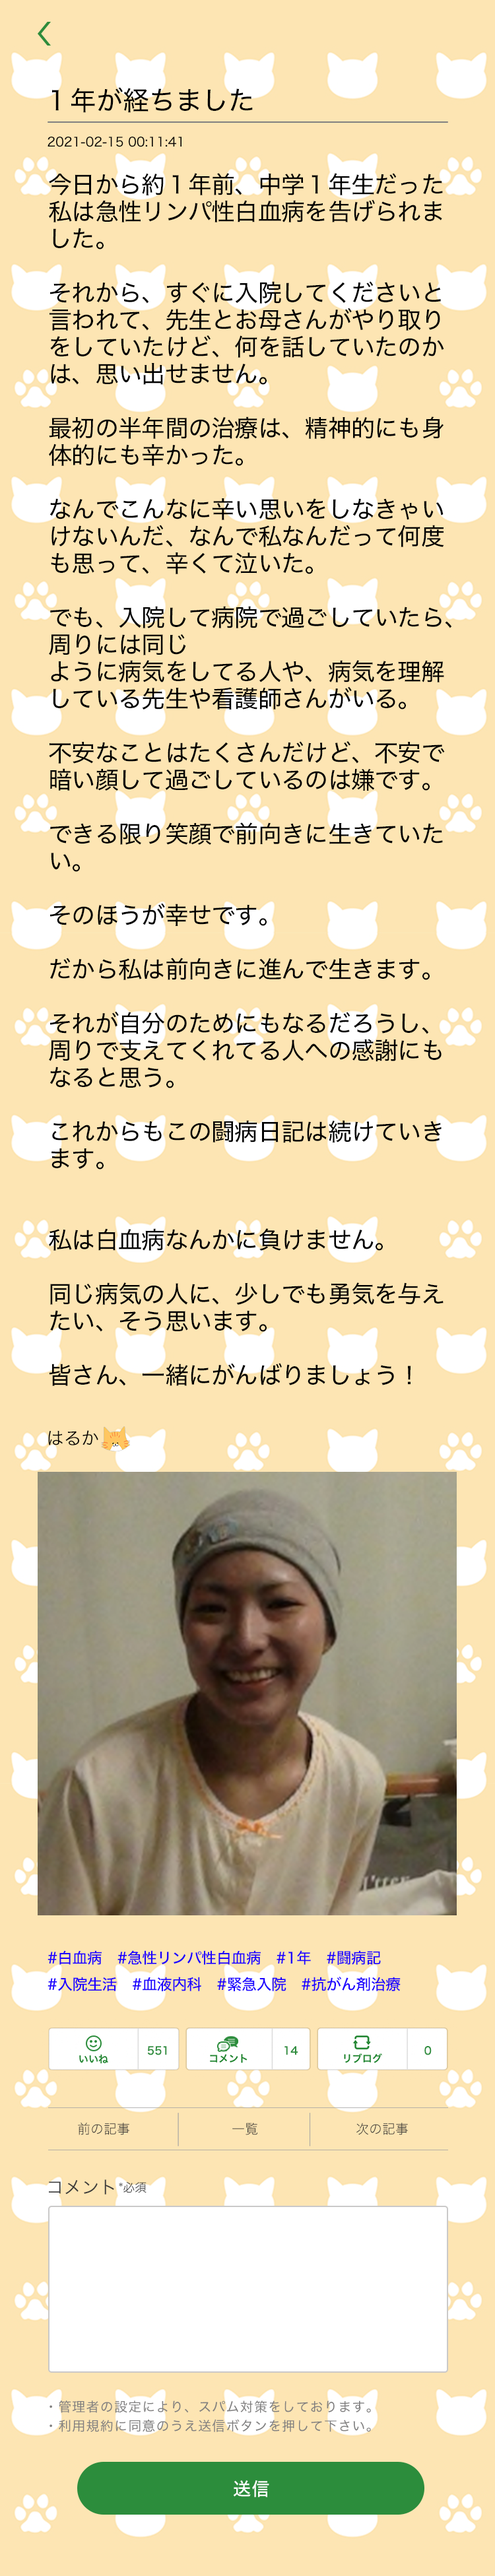
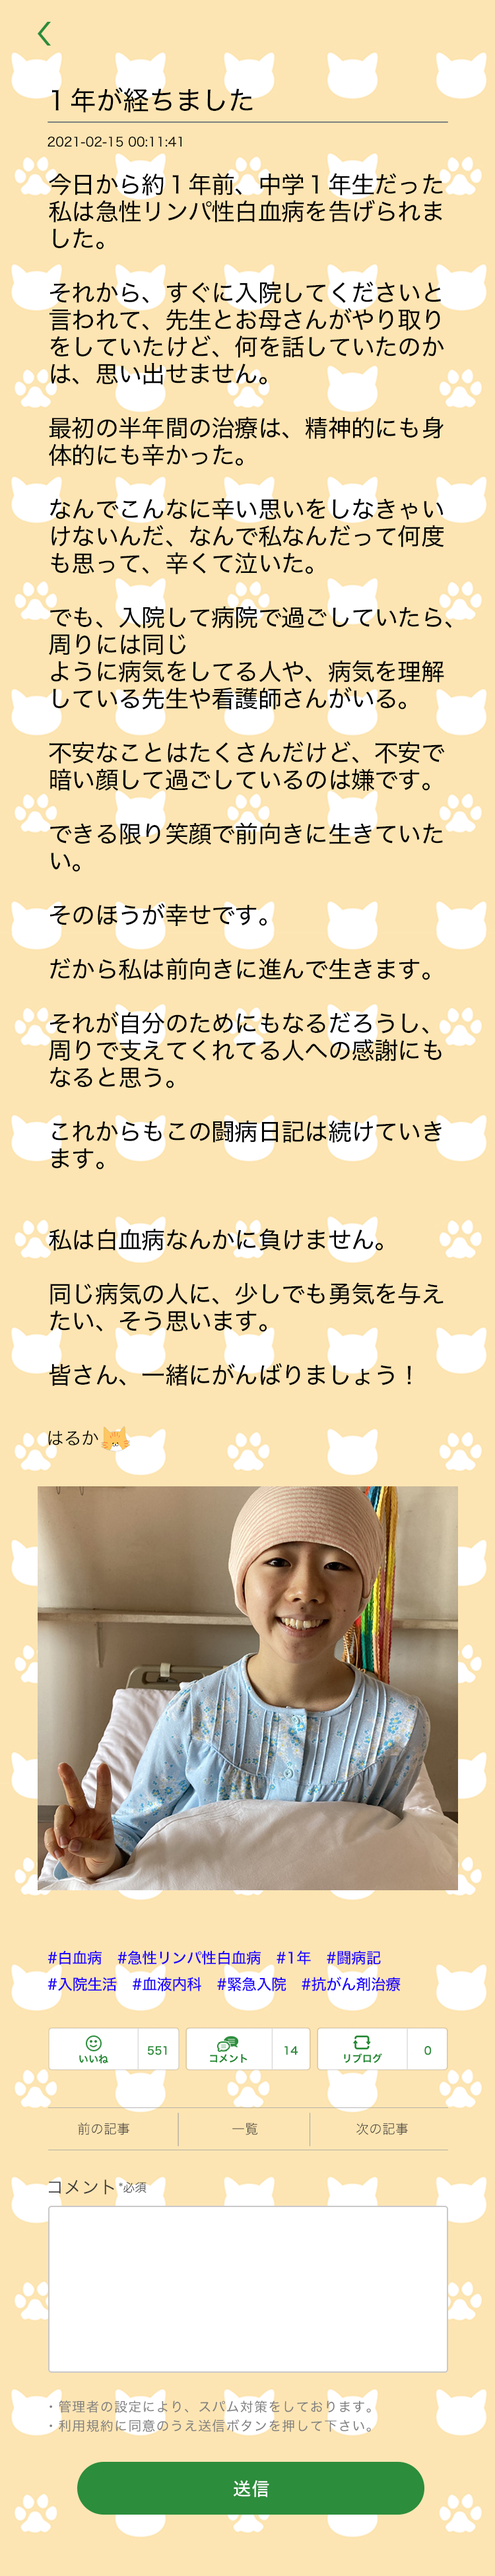
Add ex

Changed region(s): [[0.0613, 0.558, 0.9507, 0.744]]

diff --git a/public/_ex/hakketsu/index2b.html b/public/_ex/hakketsu/index2b.html
@@ -1,0 +1,47 @@
+<!DOCTYPE html>
+<html lang="en">
+<head>
+
+
+    <meta charset="UTF-8">
+    <meta name="apple-mobile-web-app-capable" content="yes">
+    <meta name="viewport" content="user-scalable=no, initial-scale=1, maximum-scale=1, minimum-scale=1, width=device-width, height=device-height, target-densitydpi=device-dpi" />
+
+    <title>ありがとうございました</title>
+    <link rel="stylesheet" type="text/css" href="http://yui.yahooapis.com/3.18.1/build/cssreset/cssreset-min.css">
+
+    <style>
+        #wrap{
+            position: absolute;
+            width: 100%;
+            height: 100%;
+        }
+
+        input, input:focus {
+            outline: none;
+            border: 0;
+            display: block;
+            position: absolute;
+            left: 16%;
+            top: 1.1%;
+            z-index: 100;
+            height: 4.3%;
+            font-size: 3vh;
+            font-family:'ヒラギノ角ゴ Pro W3','Hiragino Kaku Gothic Pro','メイリオ',Meiryo,'ＭＳ Ｐゴシック',sans-serif;
+        }
+
+        #main {
+            display: block;
+            position: absolute;
+            width: 100%;
+        }
+
+    </style>
+</head>
+<body>
+<div id="wrap">
+    <img id="main" src="img/blog_1b.png">
+</div>
+
+</body>
+</html>

diff --git a/public/_ex/hakketsu/index3.html b/public/_ex/hakketsu/index3.html
@@ -69,7 +69,7 @@
 </head>
 <body>
 <div id="wrap">
-    <img class="main" src="img/blog_0.png">
+    <img class="main" src="img/blog_2.png">
 </div>
 
 <textarea id="tf" type="text"></textarea>
